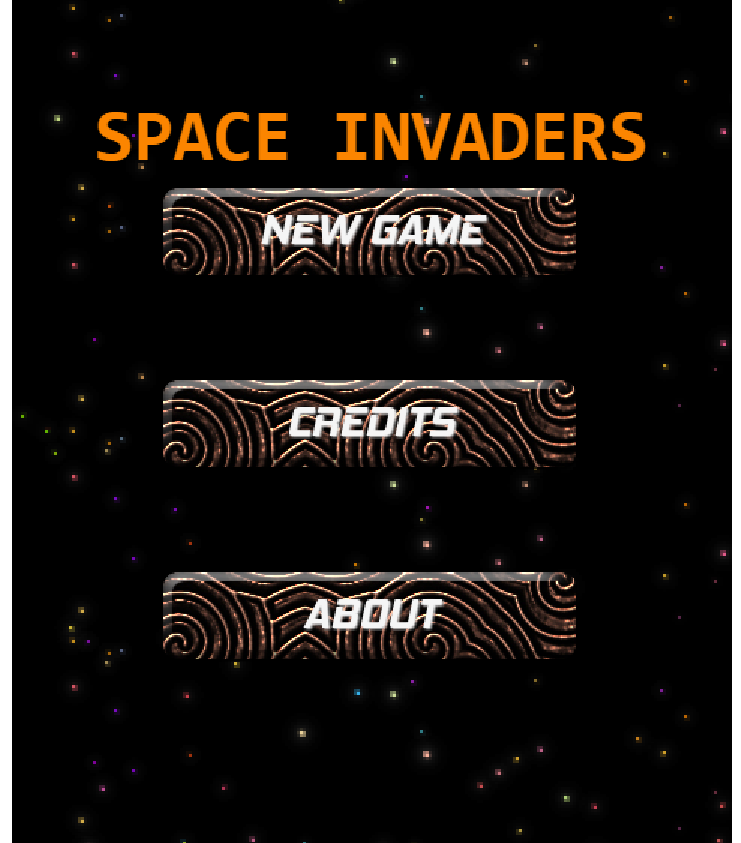
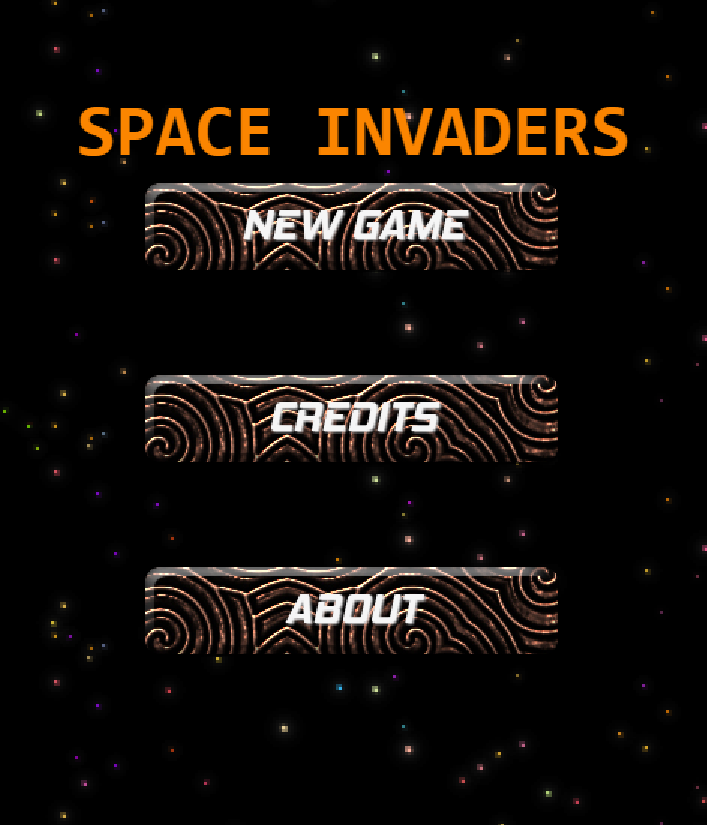
Optimized shooter image

diff --git a/index.html b/index.html
@@ -102,7 +102,7 @@
 									<a href="https://github.com/ZawadiSumba66/twitter-redesign/tree/development" target=”_blank”  class="button text-light">Source code <i class="fas fa-code"></i></a>
 							</article>
 							<article class="col-lg-6 col-md-6 col-sm-12 work-item">
-								<a class="image fit thumb"><img src="images/shooter-game.png" alt="" /></a>
+								<a class="image shooter fit thumb"><img src="images/shooter-game.png" alt="" /></a>
 								<h3>Space Shooter Game</h3>
 								<p>A spaceship has to fight its enemies in space and gains points for each enemy destroyed.
 									The app uses Axios and APIs to store top scorer information in a leader board.</p><br>

diff --git a/assets/css/main.css b/assets/css/main.css
@@ -2105,6 +2105,9 @@ input, select, textarea {
 			display: block;
 			
 		}
+		.shooter {
+			border-radius: 0.35em;
+		} 
 
 		article img {
 			width: 200px;
